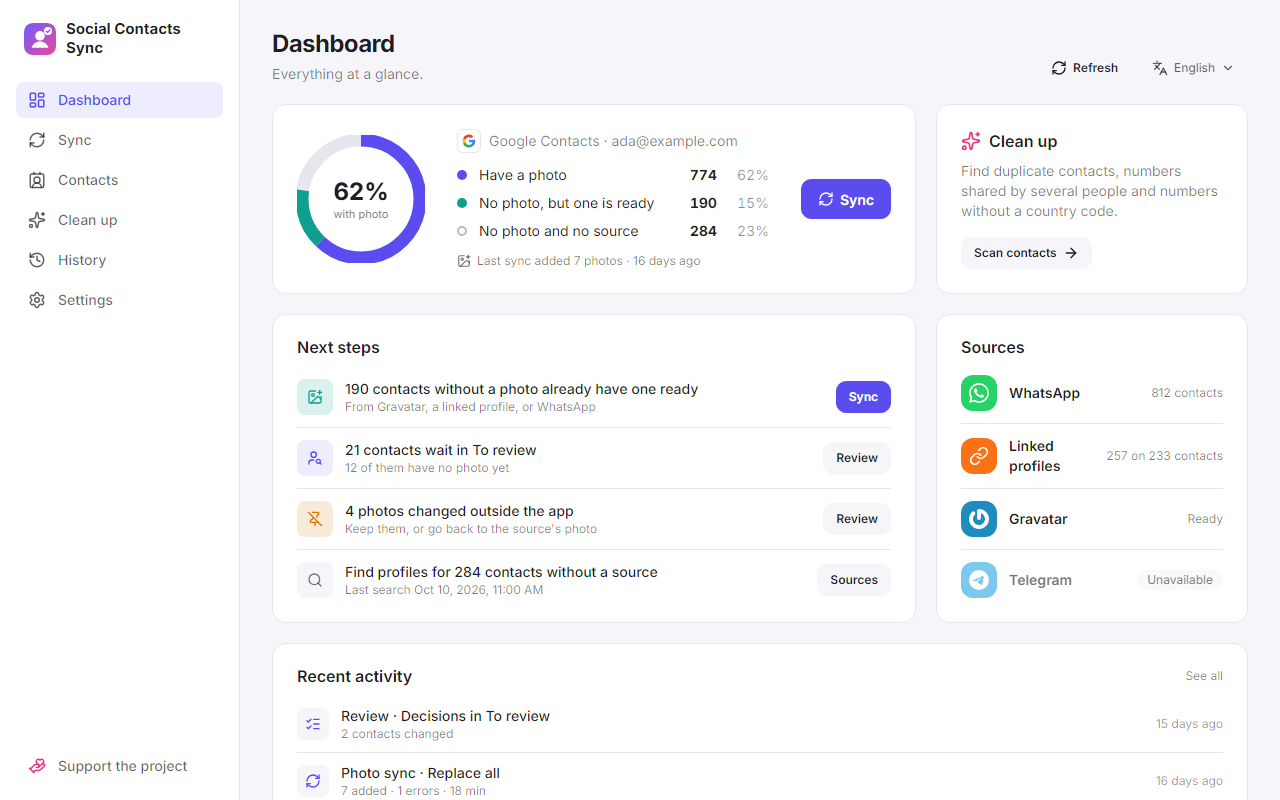
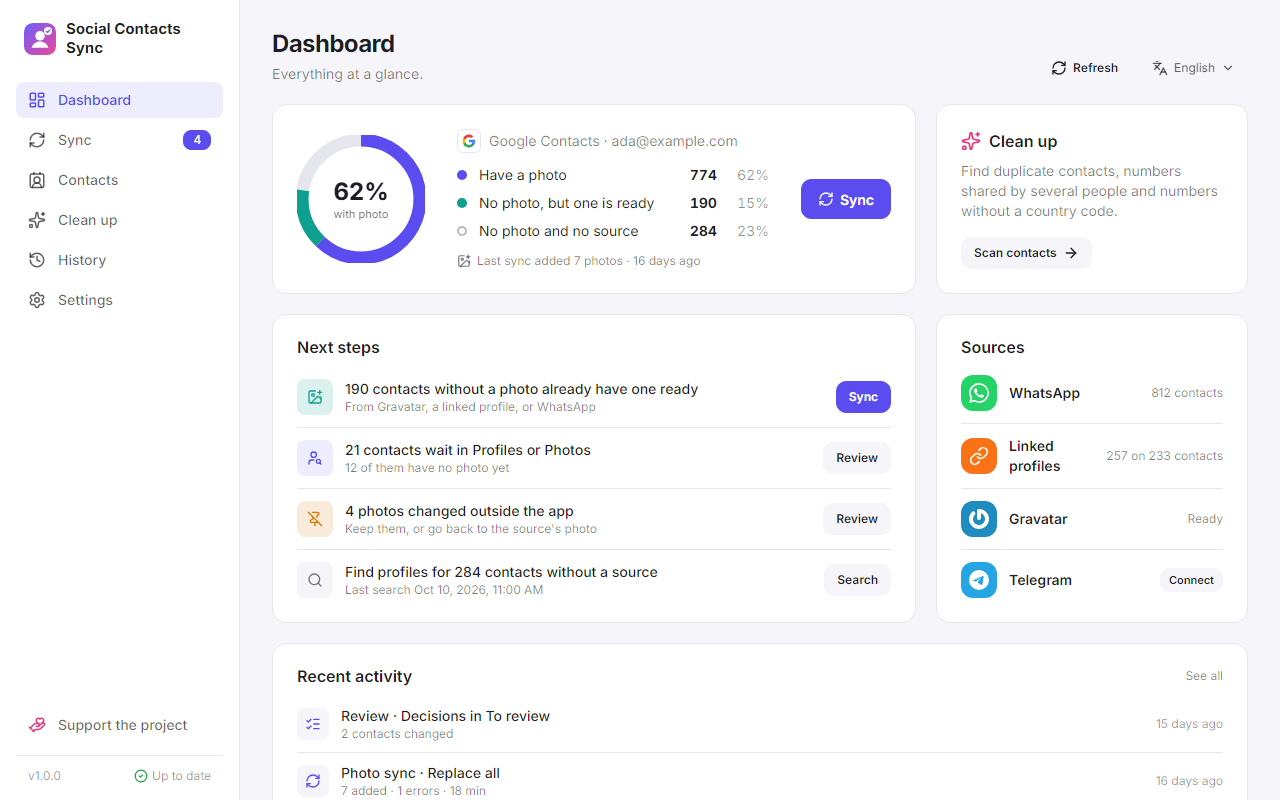
Social Contacts Sync: the Sync wizard, v1.4.3
Sync goes step by step, sources share one order with their live state, and
a sync leaves a failing source out instead of stopping. The Dashboard, sync
and Photos screenshots come from the current app.

diff --git a/social-contacts-sync.html b/social-contacts-sync.html
@@ -190,7 +190,7 @@
       <main>
         <section class="paper label-sheet" style="--c: var(--scs)" data-cat="sit">
           <img class="mark" src="social-contacts-sync.svg" alt="" width="56" height="56" />
-          <p class="state">Shipping, v1.4.0. Open source.</p>
+          <p class="state">Shipping, v1.4.3. Open source.</p>
           <h1>Social Contacts Sync</h1>
           <p class="lede">
             Give every contact a face. A desktop app that fills Google Contacts with your contacts'
@@ -250,8 +250,9 @@
             <header><span class="avatar">P</span><div><h2>Photos from your sources</h2><small>Feature</small></div></header>
             <p>
               WhatsApp and Telegram, matched by phone number, Gravatar, matched by email, and the
-              profile links saved on a contact, in the order you choose. Telegram only reads the
-              contacts you already have there.
+              profile links saved on a contact, each network a source of its own, all in one order
+              you choose. Each source says whether it is ready, and connecting or signing in happens
+              right there. Telegram only reads the contacts you already have there.
             </p>
             <p>
               A photo picked from a source keeps following it, so the next sync brings that
@@ -262,13 +263,19 @@
           <article class="contact" style="--r: 0.9deg">
             <header><span class="avatar">A</span><div><h2>A sync that asks</h2><small>Feature</small></div></header>
             <p>
-              A sync fills in missing photos and updates the ones that follow a source. Anything it
-              is not sure about waits for you: a different photo for a contact that already has one,
-              or a photo changed outside the app. Or it applies nothing and you decide every contact.
+              Sync goes step by step: sources, profiles, the sync itself, photos, the contacts with
+              nothing found, and a summary. A sync fills in missing photos and updates the ones that
+              follow a source. Anything it is not sure about waits for you: a different photo for a
+              contact that already has one, or a photo changed outside the app.
+            </p>
+            <p>
+              If a source stops working, the sync leaves it out and goes on. If a site signs you out,
+              you can sign in again right where it says so. The summary lists what didn't finish,
+              each with its fix.
             </p>
             <figure class="shot" style="--r: -1.2deg">
-              <img width="1280" height="800" src="assets/social-contacts-sync-sync-run.png" alt="The Run tab with what the sync may change and a summary of the address book" loading="lazy" />
-              <figcaption>Choose what a sync may change on its own.</figcaption>
+              <img width="1280" height="800" src="assets/social-contacts-sync-sync-run.png" alt="A sync in progress: profiles read with the login, then photos, with counters for what was applied and what waits" loading="lazy" />
+              <figcaption>A sync in progress, step 3 of 6.</figcaption>
             </figure>
           </article>
 
@@ -286,21 +293,21 @@
           </article>
 
           <article class="contact" style="--r: 0.5deg">
-            <header><span class="avatar">R</span><div><h2>To review</h2><small>Feature</small></div></header>
+            <header><span class="avatar">R</span><div><h2>Profiles and photos</h2><small>Feature</small></div></header>
             <p>
-              One card per contact, kept between sessions: every contact still without a photo, the
-              photos a sync found and the social profiles that may be them. Filter by what a card
-              needs, or search by name. Tick the profiles that are right and pick one photo among
-              every source; only photos sharp enough and different from the current one are
-              offered, and one click links them and applies it. The suggestions come from your own
+              One card per contact, kept between sessions. First tick the social profiles that are
+              really them; then pick one photo among every source and the profiles you just linked.
+              Only photos sharp enough and different from the current one are offered. The contacts
+              where nothing was found get a step of their own, to search a profile or upload a
+              photo. Filter by what a card needs, or search by name. The suggestions come from your own
               Instagram and LinkedIn data exports and a public search on Bluesky, Mastodon and
               GitHub. A search by name and a scan of your own followers with your Instagram,
               Facebook or LinkedIn login are there too, only when you start them: they go against
               those sites' terms, and the app says so first.
             </p>
             <figure class="shot" style="--r: -1deg">
-              <img width="1280" height="800" src="assets/social-contacts-sync-sync-review.png" alt="To review filtered to contacts without a photo, with a contact's suggested Instagram, LinkedIn and Bluesky profiles and their photos" loading="lazy" />
-              <figcaption>Tick the ones that are right, pick whose photo to use.</figcaption>
+              <img width="1280" height="800" src="assets/social-contacts-sync-sync-review.png" alt="The Photos step: a contact's photos from WhatsApp and from a Bluesky profile just linked" loading="lazy" />
+              <figcaption>Pick whose photo to use, including the profiles you just linked.</figcaption>
             </figure>
           </article>
 
